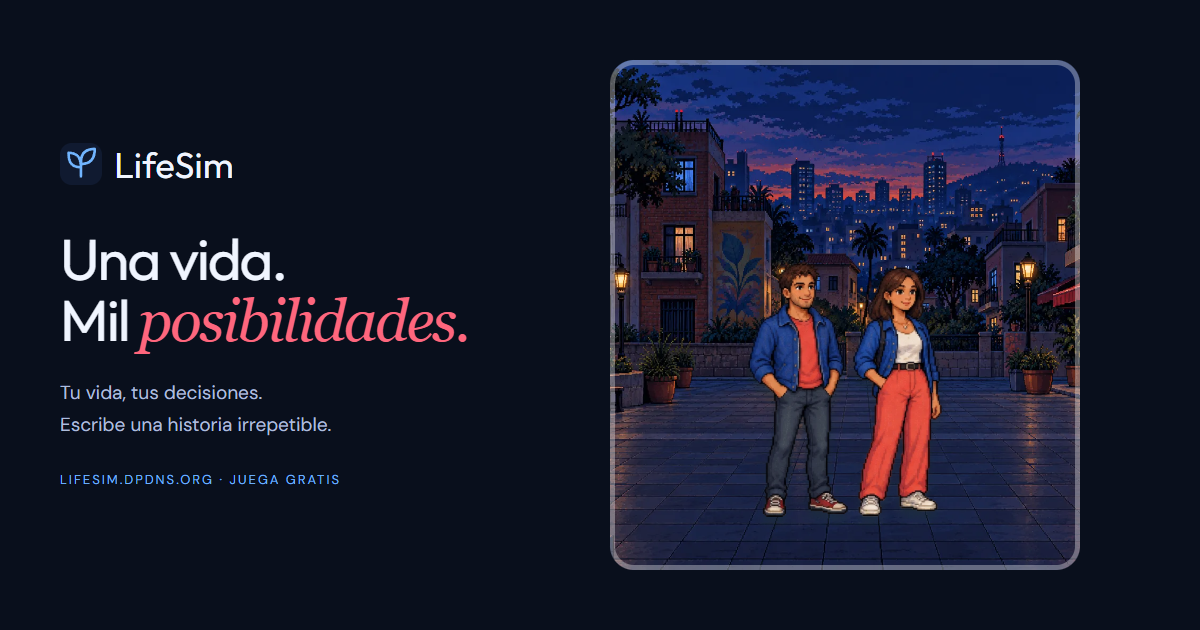
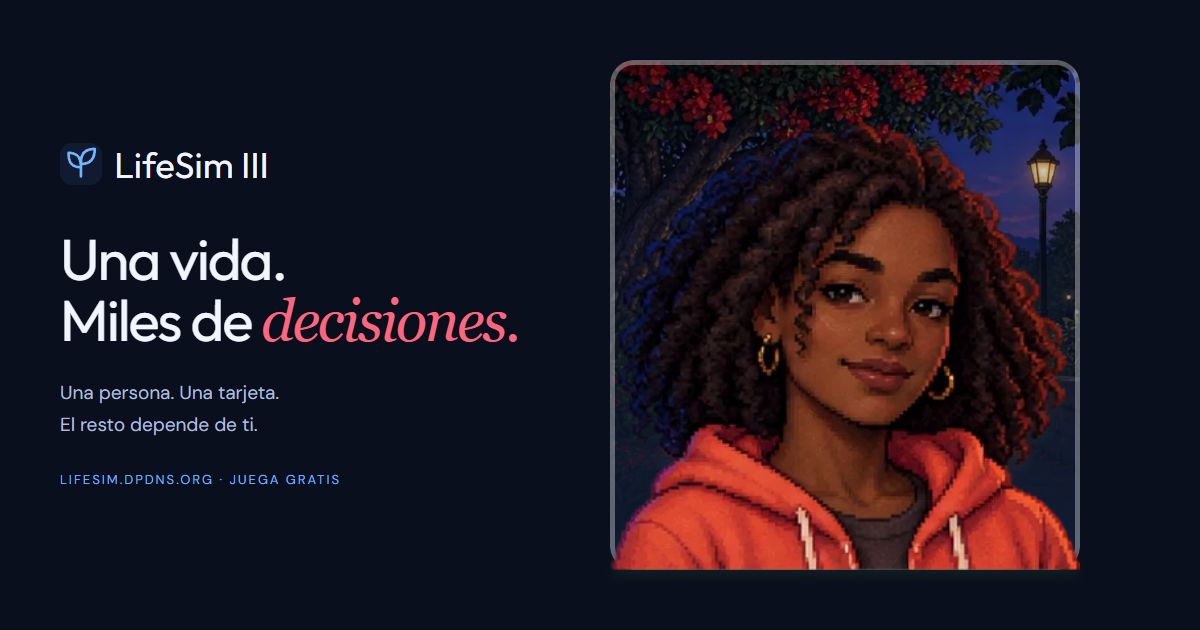
art: add recurring portraits and cinematic life contexts

diff --git a/tools/social-card.html b/tools/social-card.html
@@ -65,16 +65,19 @@
         height: 510px;
         flex-shrink: 0;
         border-radius: 24px;
-        background: url("../assets/backgrounds/neighborhood.webp") center/cover;
+        background:
+          linear-gradient(transparent, #101a30),
+          url("../assets/backgrounds/park.webp") center/cover;
         display: flex;
         align-items: flex-end;
         justify-content: center;
-        padding-bottom: 53px;
+        padding-bottom: 0;
         gap: 5px;
         box-shadow: inset 0 0 0 5px #ffffff55;
       }
       .world img {
-        height: 255px;
+        width: 100%;
+        height: auto;
         filter: drop-shadow(0 8px 4px #1e352d55);
       }
       .world img + img {
@@ -84,16 +87,13 @@
   </head>
   <body>
     <div class="copy">
-      <div class="brand"><img src="../favicon.svg" alt="" />LifeSim</div>
-      <h1>Una vida.<br />Mil <em>posibilidades.</em></h1>
-      <p>Tu vida, tus decisiones.<br />Escribe una historia irrepetible.</p>
+      <div class="brand"><img src="../favicon.svg" alt="" />LifeSim III</div>
+      <h1>Una vida.<br />Miles de <em>decisiones.</em></h1>
+      <p>Una persona. Una tarjeta.<br />El resto depende de ti.</p>
       <div class="link">LIFESIM.DPDNS.ORG · JUEGA GRATIS</div>
     </div>
     <div class="world">
-      <img src="../assets/characters/0-young.webp" alt="" /><img
-        src="../assets/characters/1-young.webp"
-        alt=""
-      />
+      <img src="../assets/npcs/vera.webp" alt="" />
     </div>
   </body>
 </html>

diff --git a/docs/ART-V3.md b/docs/ART-V3.md
@@ -1,0 +1,33 @@
+# Arte de LifeSim III
+
+La herramienta integrada de generación de imágenes creó tres atlas originales: personajes recurrentes, variantes por edad y entornos. No se utilizó una API externa. Se conserva la dirección pixel art humana de la versión anterior para el protagonista; la presentación principal pasa a retratos grandes de los interlocutores.
+
+## Recursos finales
+
+- `assets/npcs/`: 20 WebP transparentes, doce identidades y ocho variantes por edad. Elena, Tomás, Inés, Vera, Noa, Rafael, Celia, Salma, Ada, Luz, Omar e Iria.
+- `assets/backgrounds/{home,school,office,hospital,park,archive}.webp`: seis contextos nuevos. `neighborhood.webp` se conserva para la calle y el inicio.
+- `assets/characters/`: se mantienen las doce ilustraciones nuevas de la revisión pixel art (dos apariencias × seis edades), ahora usadas en creación, voz interior, perfil y memorial.
+- `og-image.png`: presentación social V3, generada con los mismos recursos locales.
+- Fuentes locales Outfit y DM Sans con sus licencias SIL OFL. Favicon e iconos SVG propios.
+
+`tools/prepare-v3-assets.cjs portraits.png backgrounds.png variants.png` extrae cada celda a un búfer antes de recortar transparencias, preserva alpha y comprime a WebP. Los retratos miden como máximo 360 × 340 px. Se precarga solo el siguiente retrato al resolver una decisión. Los ocho retratos de edad cambian según la vida de la persona; no son simples filtros.
+
+## Prompt del atlas de personajes
+
+```text
+Use case: stylized-concept. Asset: one production NPC portrait atlas for an original narrative life game LifeSim. EXACT 4 columns x 3 rows, canvas1536x1024. Every portrait centered INSIDE its own 384x341 cell, isolated transparent alpha background, wide clear gutters, no labels or grid. Bust portraits from upper chest, heads fully contained, human natural proportions, distinctive realistic noses small eyes, expressive nuanced faces. Cohesive handmade detailed pixel art, crisp square clusters, dramatic understated cobalt and coral rim light, grounded 1990s adventure game aesthetic, NOT Disney Pixar anime chibi or 3D. ROW1 left-right: Elena warm medium-brown skin mother age40 short curly dark hair burgundy cardigan; Tomas father age43 tan skin short beard navy work shirt; Ines grandma age72 light brown skin silver bun thin glasses purple blouse; Vera best friend age24 dark brown skin dark curly hair bright coral hoodie. ROW2: Noa romantic interest age26 androgynous olive skin cropped black hair blue jacket silver earring; Rafael boss age50 dark skin bald round glasses charcoal jacket; Celia doctor age45 tan skin long tied black hair white coat teal undershirt; Salma teacher age38 light olive skin auburn bob ochre turtleneck. ROW3: Ada mentor age61 dark skin silver cropped hair elegant blue coat; Luz child age9 warm brown skin twin dark braids red overalls striped shirt; Omar neighbor age58 tan skin greying moustache denim shirt; Iria mysterious archivist age35 pale olive skin dark straight jaw-length hair red scarf dark navy coat holding no objects. Faces front three-quarter view, calm ambiguous expressions, good silhouette at small phone sizes. No props outside cells, no shared scene, no text, no background. Truly transparent alpha required.
+```
+
+## Prompt de entornos
+
+```text
+Use case: stylized-concept. One environment background atlas for an original pixel art life narrative game. Canvas1536x1024 EXACT3columns2rows, six square512x512 scenes cleanly separated exactly at x512 and1024 y512, no border gutters no text. All scenes empty no people. Consistent grounded detailed pixel art, discrete pixel clusters, dark cinematic indigo cobalt coral restrained palette, subtle lighting not noisy. Top row left to right: intimate modest Latin American kitchen at dusk with lamp and table; empty school classroom with blue twilight windows and desks; quiet office studio with plants and computers after work. Bottom row left to right: small doctor's consultation room with chair and examination bed illuminated soft teal; quiet green city park with red flowering tree and bench at twilight; mysterious archive room dark shelves of envelopes and old radio, subtle red light from doorway. All eye level, compositional detail at edges, center clean darker negative space for a large human portrait overlay. No readable text, no logos, no UI, no fantasy, no Disney cartoon look. Each scene must fill only its exact rectangular cell; no blending between scenes.
+```
+
+## Prompt de variantes
+
+La imagen del atlas de personajes se proporcionó como referencia de identidad.
+
+```text
+Create a NEW supporting portrait atlas using the attached NPC atlas ONLY as reference for facial identity and pixel art style. Output transparent PNG1536x1024 EXACT4columns x2rows, eight isolated upper-chest portraits, each inside384x512 cell with clear transparent gutters, no text labels backgrounds or grids. Grounded human proportions, crisp pixel clusters, cobalt and coral rim lighting, NOT Disney Pixar chibi anime. Top row left-right: Vera as an8yearold dark brown skin curly hair coral hoodie; Vera as16yearold same person; Vera age68 grey curly hair coral cardigan; Noa age68 androgynous olive skin short silver hair blue jacket. Bottom row left-right: Luz as28yearold warm brown skin dark twin braids striped shirt red straps; Elena age70 silver curly hair burgundy cardigan; Tomas age73 grey hair moustache and beard navy shirt; Salma age65 grey auburn bob ochre turtleneck. Keep their identities consistent with reference and show visibly different ages. Each bust fully contained; no overlap or hands. Real alpha transparency.
+```

diff --git a/docs/ART.md b/docs/ART.md
@@ -1,5 +1,7 @@
 # Dirección artística y recursos
 
+La presentación V3 añade retratos de NPCs, variantes por edad y nuevos contextos; ver [arte de V3](ART-V3.md). Este documento conserva los prompts del protagonista y del barrio que siguen utilizándose.
+
 Pixel art urbano nocturno: personajes humanos de proporciones naturales, expresiones sobrias y ropa cotidiana. Paleta de azul eléctrico, rojo coral e índigo sobre fondos oscuros. Recursos generados con la herramienta integrada de imágenes, sin API externa ni claves. Todos los assets viven en el proyecto.
 
 ## Recursos finales
